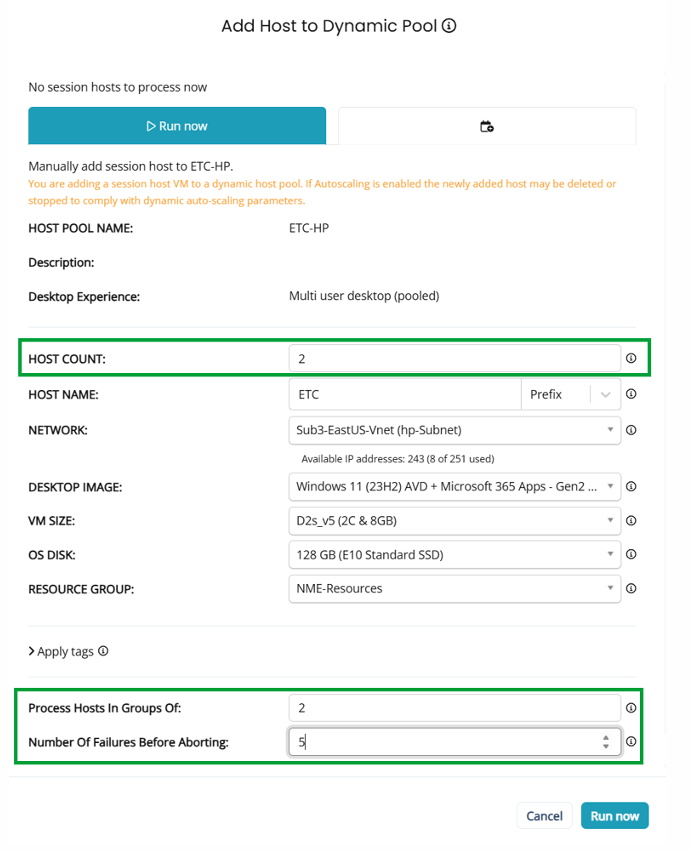
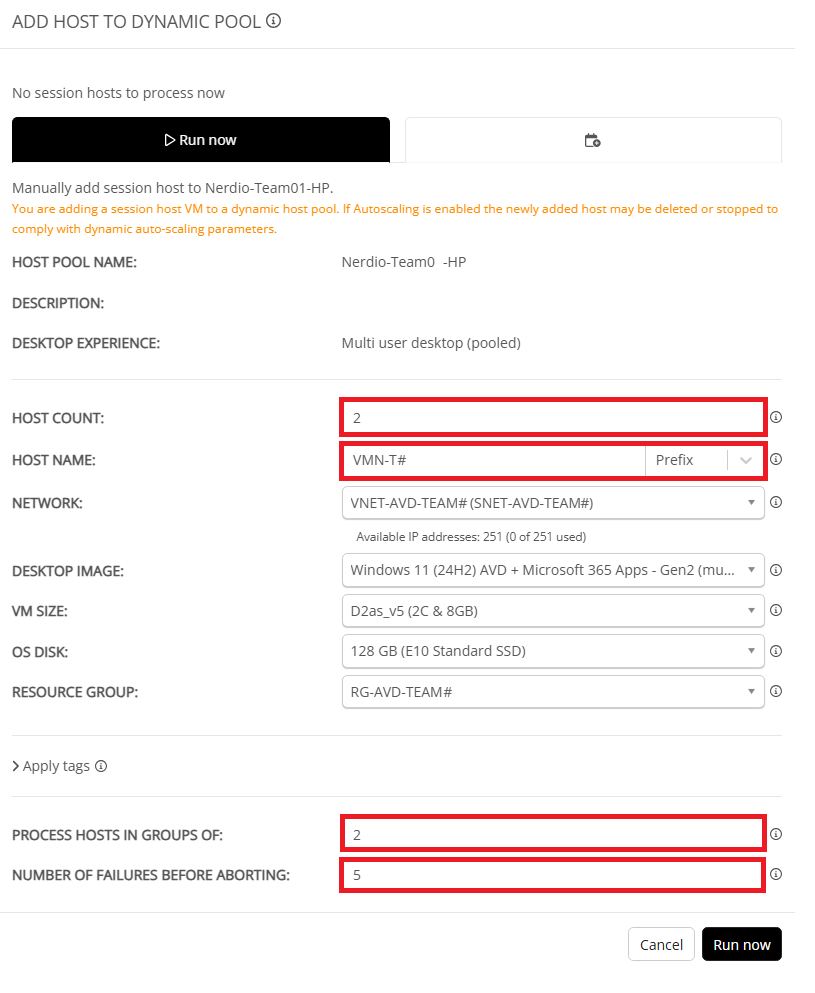
Commit Nerdio

diff --git a/Nerdio/01-Enterprise-Foundations-Lab.md b/Nerdio/01-Enterprise-Foundations-Lab.md
@@ -56,9 +56,9 @@
 
 ### Laboratório 3 - Criando session hosts
 
-1. Encontre o host pool que você criou.
-2. Clique no **Nome do seu Host Pool**
-3. Clique em **New Host**
+1. Encontre o host pool que você criou: **Workspaces/Dynamic host pools**
+2. Clique no **Nome do seu Host Pool Ex: Nerdio-Team#-HP**
+3. Clique em **Add Session Host**
 4. Configure conforme abaixo:
 
 | Propriedade | Valor |
